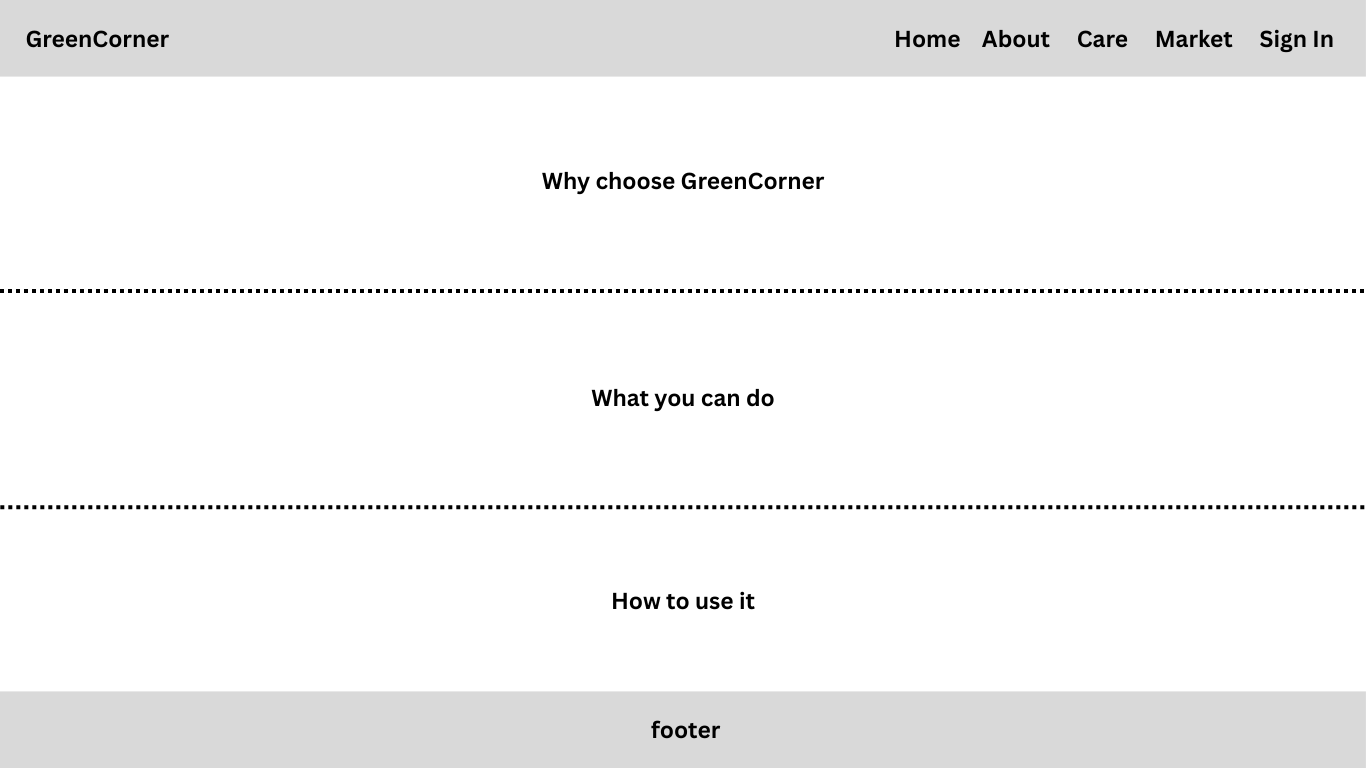
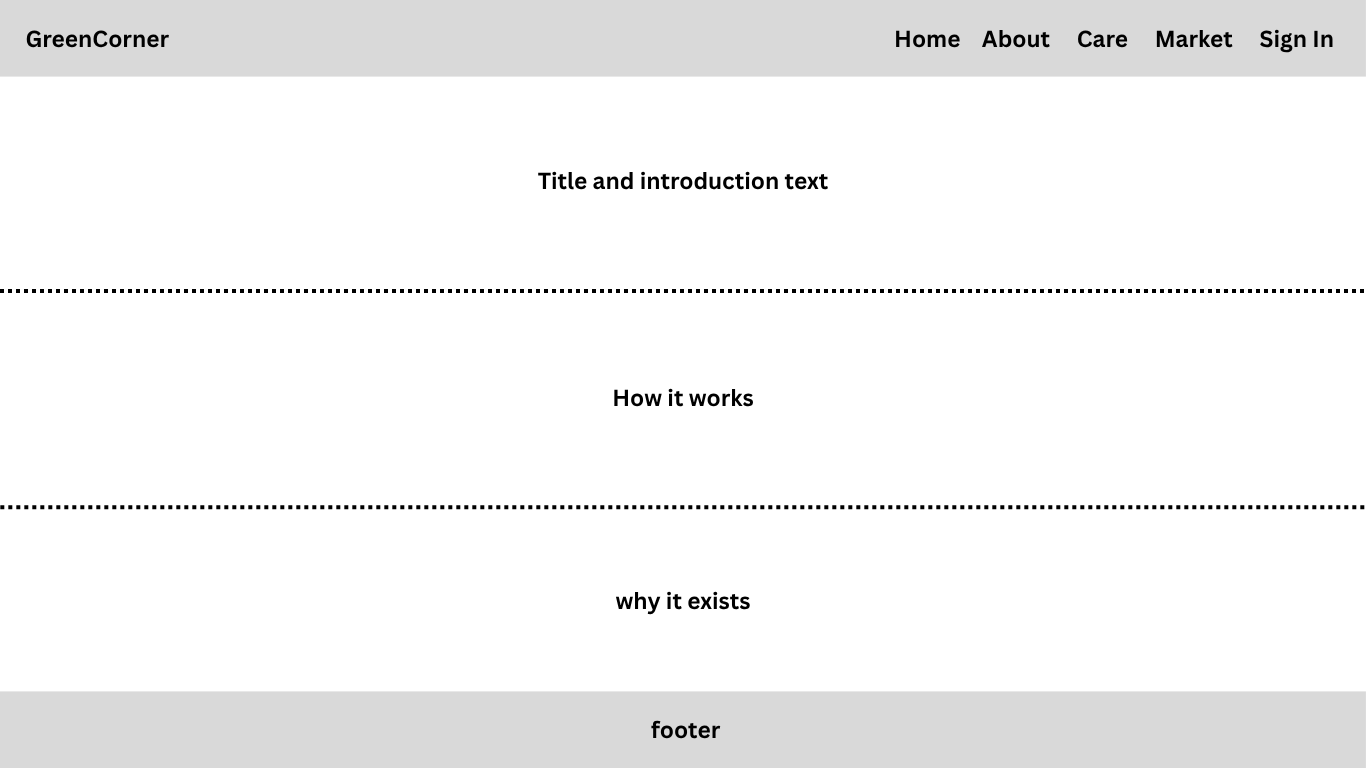
update screenshots, update mocks

Changed region(s): [[0.4305, 0.75, 0.5534, 0.8125], [0.3997, 0.2188, 0.6149, 0.25], [0.4305, 0.5, 0.5842, 0.5312]]

diff --git a/README.md b/README.md
@@ -118,9 +118,9 @@ plant-community/
 │       │   └── main.css                 # Global CSS variables, layout, typography
 │       ├── assets/
 │       │   ├── about/                   # Hero images for the About page
-│       │   │   ├── conversation1.jpg
-│       │   │   └── conversation2.jpg
-│       │   └── plants/                  # Plant type images (13 types)
+│       │   │   ├── conversation1.webp
+│       │   │   └── conversation2.webp
+│       │   └── plants/                  # Plant type images (13 types, WebP format)
 │       ├── context/
 │       │   ├── AuthContextDef.js        # React context object (createContext)
 │       │   ├── AuthContext.jsx          # AuthProvider component (session check, login, register, logout)
